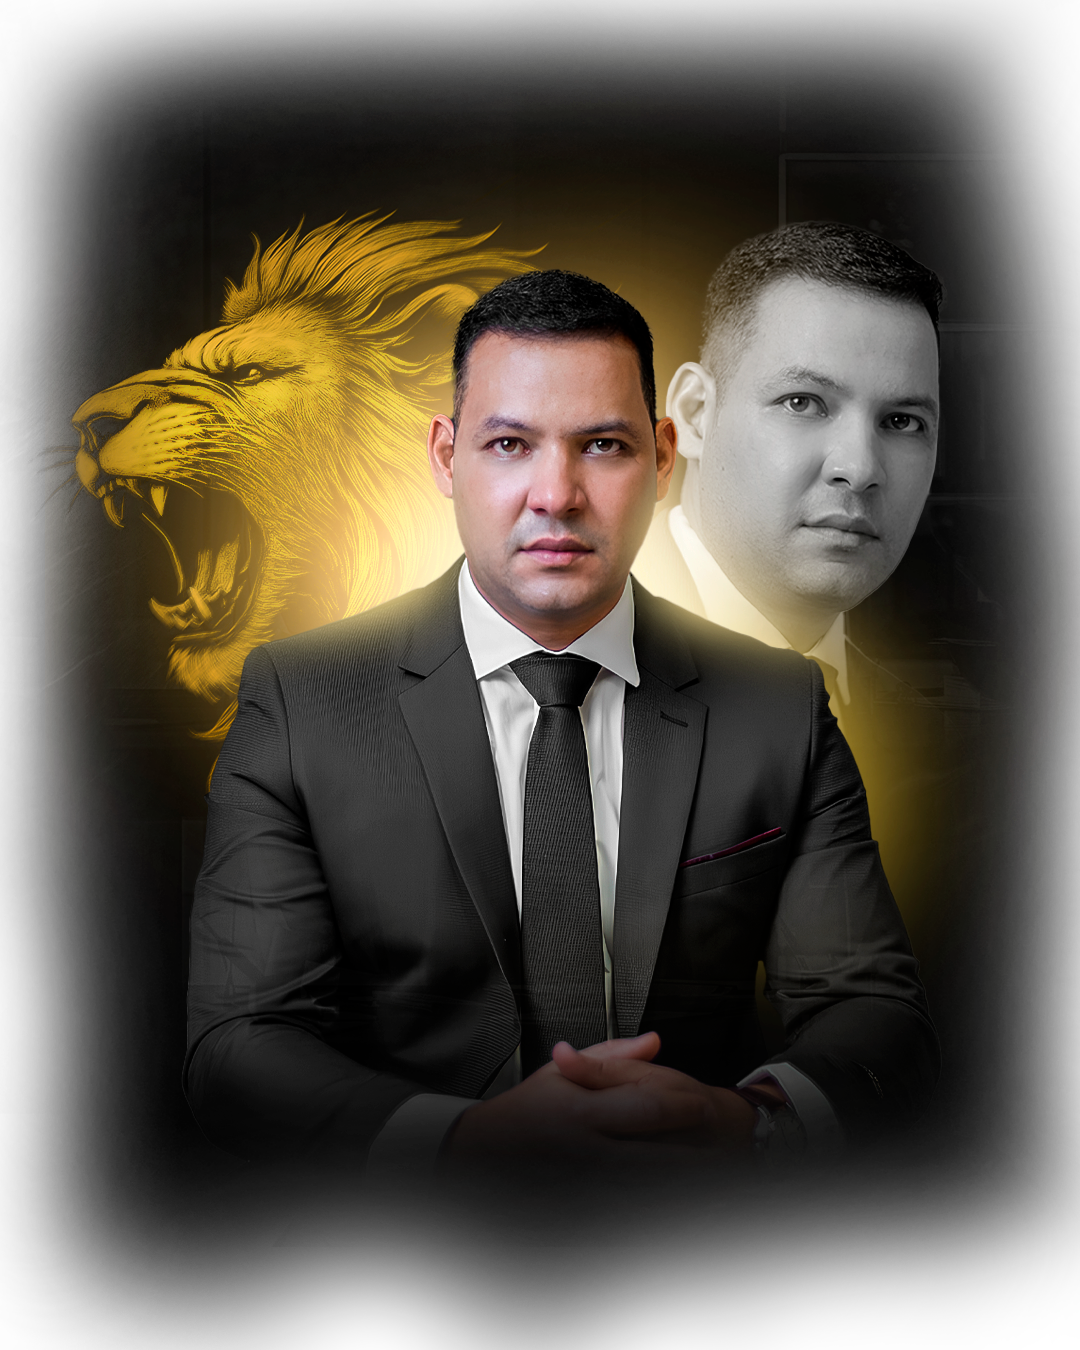
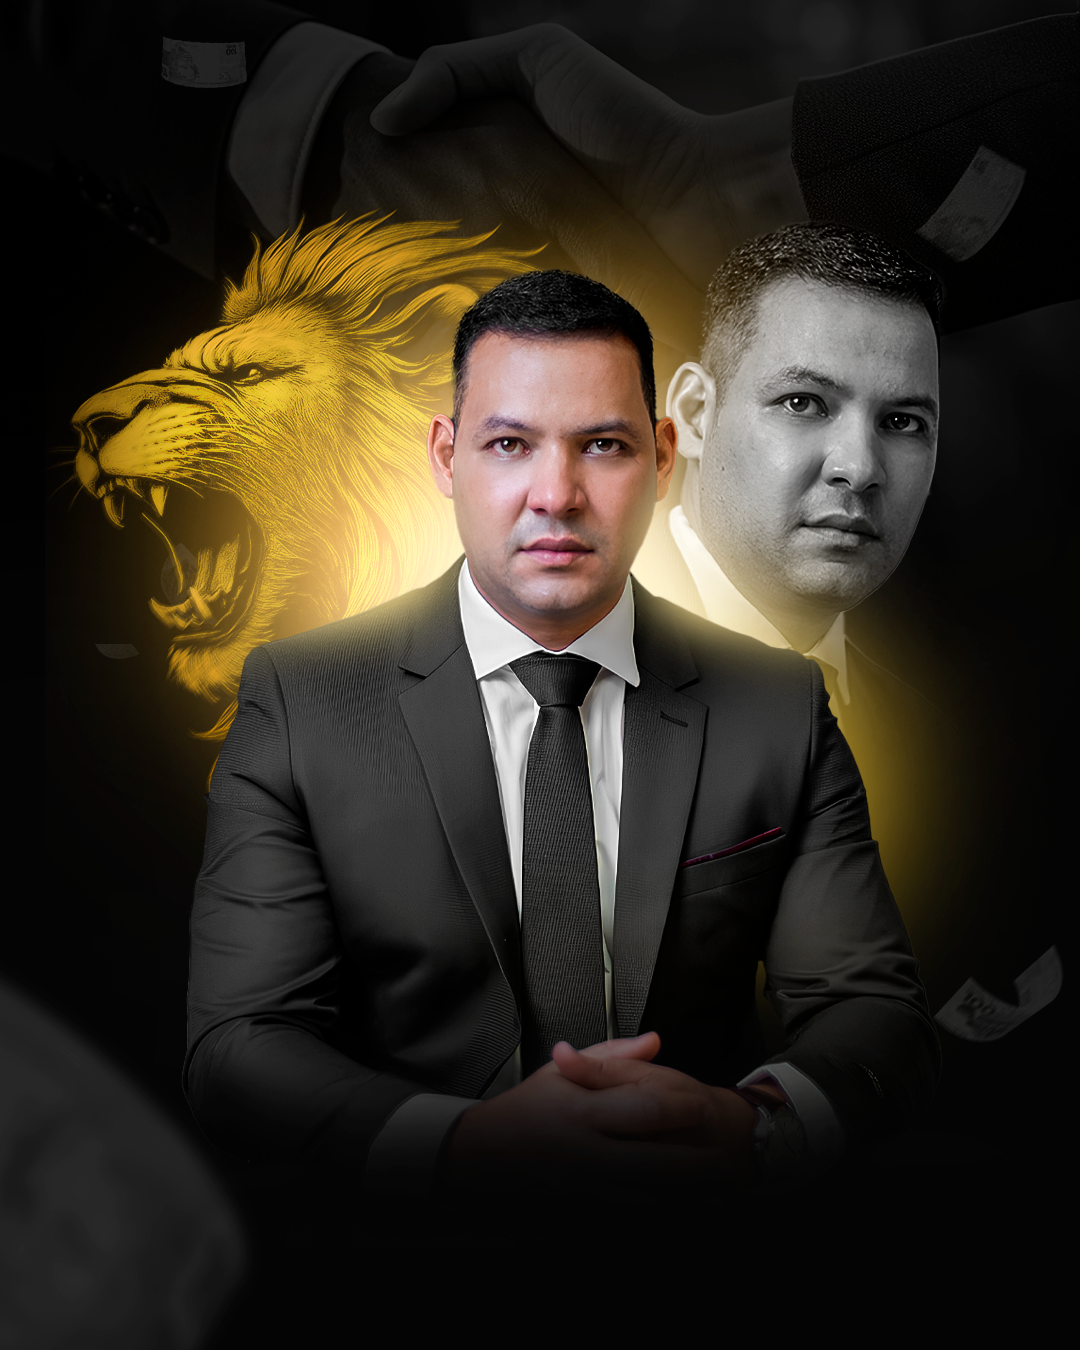
Atualiza a seção de parcerias tributárias, integrando a imagem ao fundo da página com novos efeitos de gradiente e ajustes de opacidade. Melhora a apresentação visual da imagem com novos estilos CSS e refina a lógica de blend para uma melhor integração estética.

diff --git a/app/parcerias-tributarias/page.tsx b/app/parcerias-tributarias/page.tsx
@@ -231,16 +231,28 @@ export default function ParceriasTributarias() {
               {/* Coluna Direita - Imagem */}
               <div className="relative flex justify-center lg:justify-end order-1 lg:order-2">
                 {/* // [cursor-edit] */}
-                {/* Imagem bem destacada e grande */}
+                {/* Imagem integrada ao fundo da página */}
                 <div className="relative w-full max-w-lg lg:max-w-xl">
+                  {/* Gradiente de integração com o fundo */}
+                  <div className="absolute inset-0 bg-gradient-to-r from-black via-transparent to-transparent opacity-60 z-10"></div>
+                  <div className="absolute inset-0 bg-gradient-to-b from-transparent via-transparent to-black opacity-40 z-10"></div>
+                  
                   <Image 
                     src="/leao/leao.png"
                     alt="Abrão & Silva Advocacia"
                     width={600}
                     height={700}
-                    className="w-full h-auto object-contain filter brightness-110 contrast-110"
+                    className="w-full h-auto object-contain opacity-90 mix-blend-luminosity"
+                    style={{
+                      filter: 'brightness(1.2) contrast(1.3) saturate(0.8)',
+                      maskImage: 'radial-gradient(circle at center, rgba(0,0,0,1) 40%, rgba(0,0,0,0.8) 70%, rgba(0,0,0,0.3) 90%, transparent 100%)'
+                    }}
                     priority={true}
                   />
+                  
+                  {/* Efeitos de integração */}
+                  <div className="absolute top-0 left-0 w-full h-full bg-black opacity-10 mix-blend-multiply"></div>
+                  <div className="absolute -inset-4 bg-gradient-to-br from-transparent via-black/5 to-black/20 blur-sm"></div>
                 </div>
               </div>
             </div>
